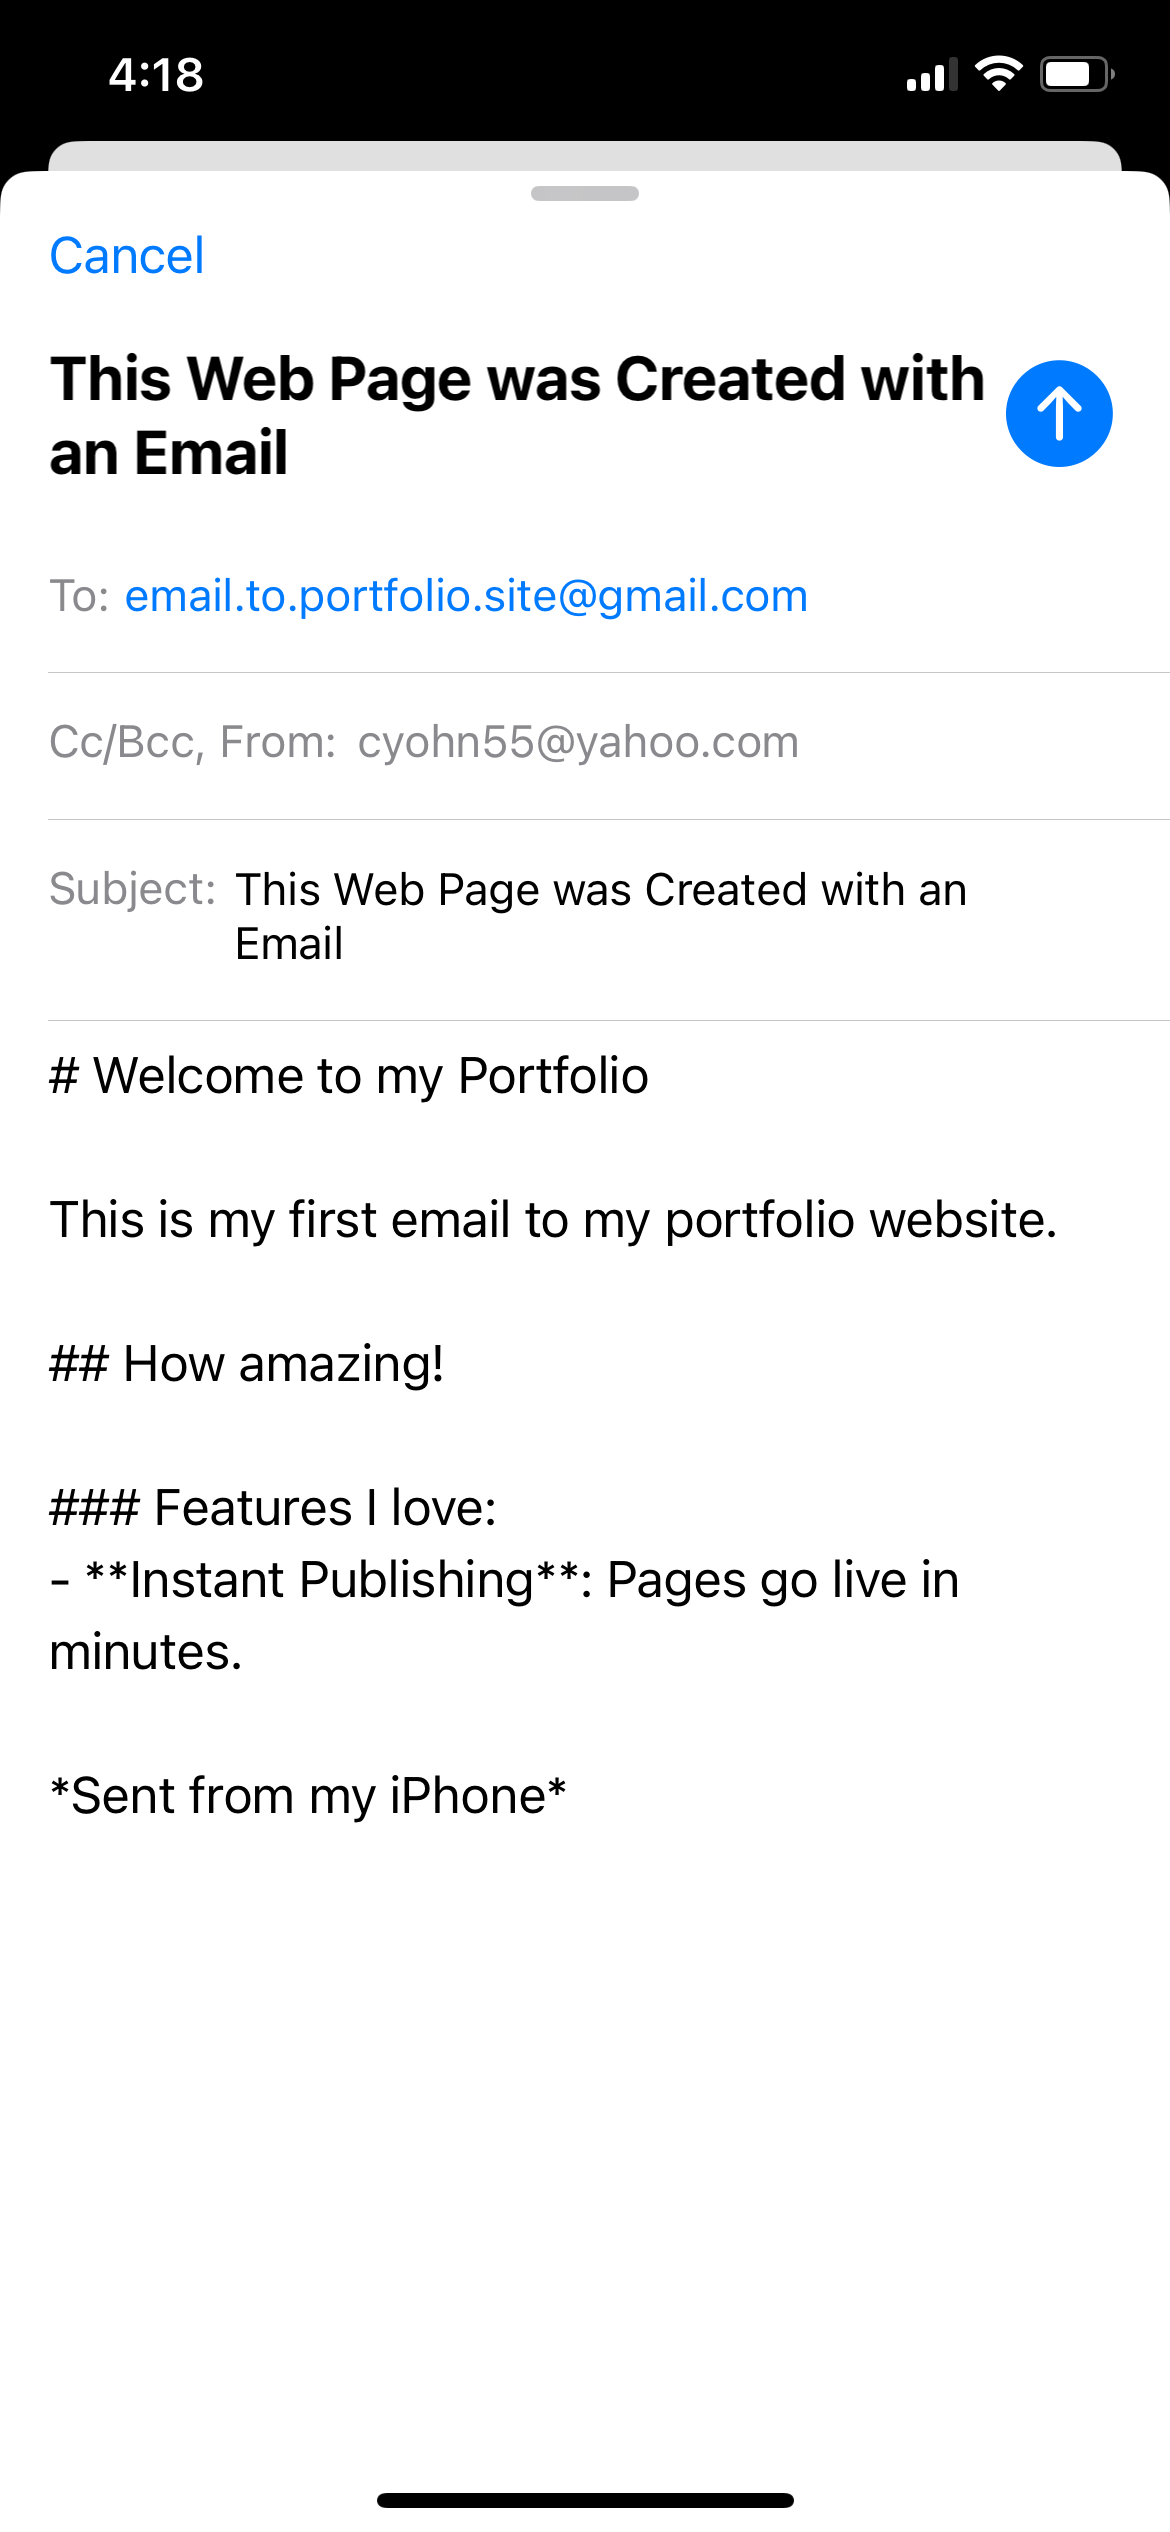
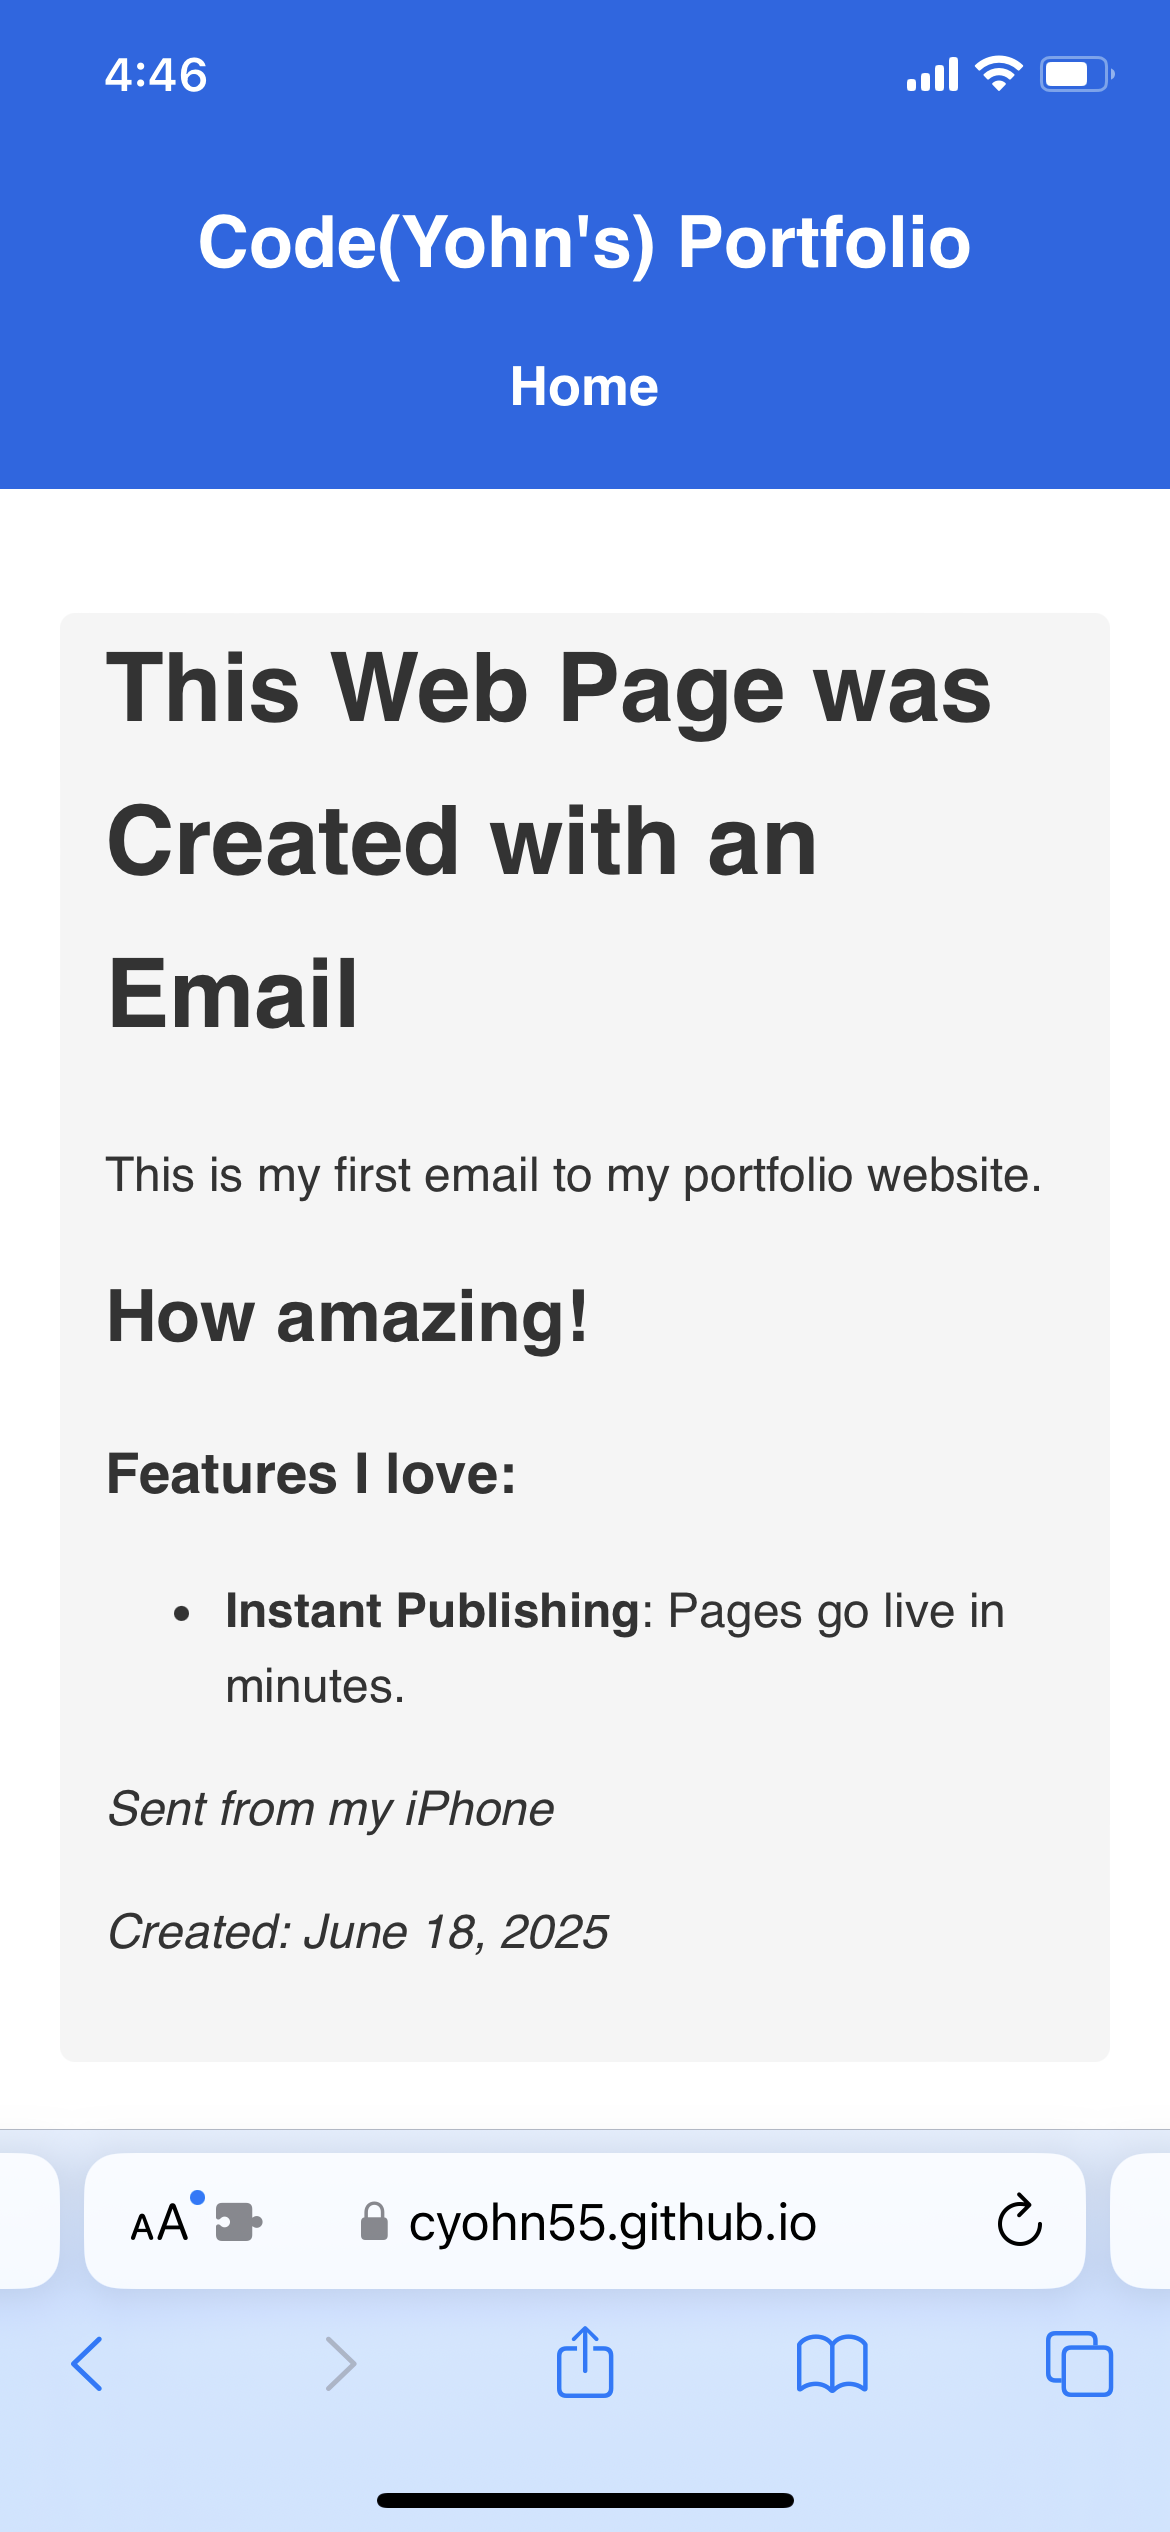
Add new page with media: This Web Page was Created with an Email
Automatically generated from email
Includes 2 media file(s)

diff --git a/Pages/thiswebpagewascreatedwithanemail.html b/Pages/thiswebpagewascreatedwithanemail.html
@@ -26,9 +26,9 @@
 <em>AI has now entered the chat</em>
 <p>But, not all is doom and gloom with AI. I wanted to create a simple way where I could draft a new email, include text, images, and video in the body of the email, which would act as a HTML blueprint for building and pushing my portfolio website live once the email is sent.</p>
 <h2>Here is how to generate a new web page on my portfolio website:</h2>
-<img src="../images/this_web_page_was_cr_image0.png" alt="image0.png" style="max-width: 100%; height: auto; margin: 10px 0; border-radius: 8px; box-shadow: 0 2px 8px rgba(0,0,0,0.1);">
+<img src="../images/this_web_page_was_cr_cid_1BDB4B64-8D8E-478A-B5AC-FCCEEEFED7F5-L0-001.png" alt="cid:1BDB4B64-8D8E-478A-B5AC-FCCEEEFED7F5-L0-001.png" style="max-width: 100%; height: auto; margin: 10px 0; border-radius: 8px; box-shadow: 0 2px 8px rgba(0,0,0,0.1);">
 <h2>Here is the Output:</h2>
-<img src="../images/this_web_page_was_cr_image1.png" alt="image1.png" style="max-width: 100%; height: auto; margin: 10px 0; border-radius: 8px; box-shadow: 0 2px 8px rgba(0,0,0,0.1);">
+<img src="../images/this_web_page_was_cr_image0.png" alt="image0.png" style="max-width: 100%; height: auto; margin: 10px 0; border-radius: 8px; box-shadow: 0 2px 8px rgba(0,0,0,0.1);">
 <h3>Features I love:</h3>
 <ul><li><strong>Instant Publishing</strong>: Pages go live in minutes.</li></ul>
 <em>Sent from my iPhone</em>
